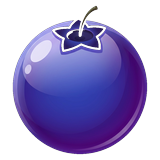
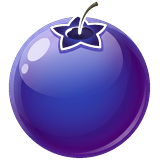
art: bigger fruit, and a halo for the words written on a painting
The fruit fills its cell now: the painted plate carries a margin of its own, so a piece that stopped at
the cell edge read as a sticker on a board. The piece box grew and the piece overhangs its cell by a dp.

The tool medallion inside each orb shrank into the dome, because the orb's ring is a rose band now and
the old inset put the hammer over the ring.

The screen titles are written straight on the backdrops, and the backdrops are daylight now — bright,
busy and different on every screen. They get a pale halo instead of a plate.

Changed region(s): [[0.0312, 0.0, 0.9375, 1.0], [0.7188, 0.25, 0.7812, 0.4375], [0.2188, 0.5625, 0.25, 0.5938]]

diff --git a/godot-port/tools/import_gem_art.py b/godot-port/tools/import_gem_art.py
@@ -30,7 +30,7 @@ SOURCE = os.path.join(HERE, "assets", "gems", "source")
 OUT = os.path.join(HERE, "assets", "gems")
 
 SIZE = 160          # the plate every screen scales from
-STONE_BOX = 150     # how much of the plate the stone fills
+PIECE_BOX = 158     # how much of the plate the fruit fills
 KEY_TOLERANCE = 26  # how near-black the field has to be to get filled
 
 
@@ -63,9 +63,9 @@ def _centred(cut: Image.Image) -> Image.Image:
     # the same width do not look like the same size of stone.
     alpha = np.asarray(stone.getchannel("A")).astype(np.float32) / 255.0
     area = float(alpha.sum())
-    target = (STONE_BOX ** 2) * 0.62
+    target = (PIECE_BOX ** 2) * 0.62
     scale = (target / area) ** 0.5 if area > 1.0 else 1.0
-    scale = min(scale, STONE_BOX / max(stone.width, stone.height))
+    scale = min(scale, PIECE_BOX / max(stone.width, stone.height))
     stone = stone.resize((max(1, int(stone.width * scale + 0.5)),
                           max(1, int(stone.height * scale + 0.5))), Image.LANCZOS)
     plate = Image.new("RGBA", (SIZE, SIZE), (0, 0, 0, 0))
